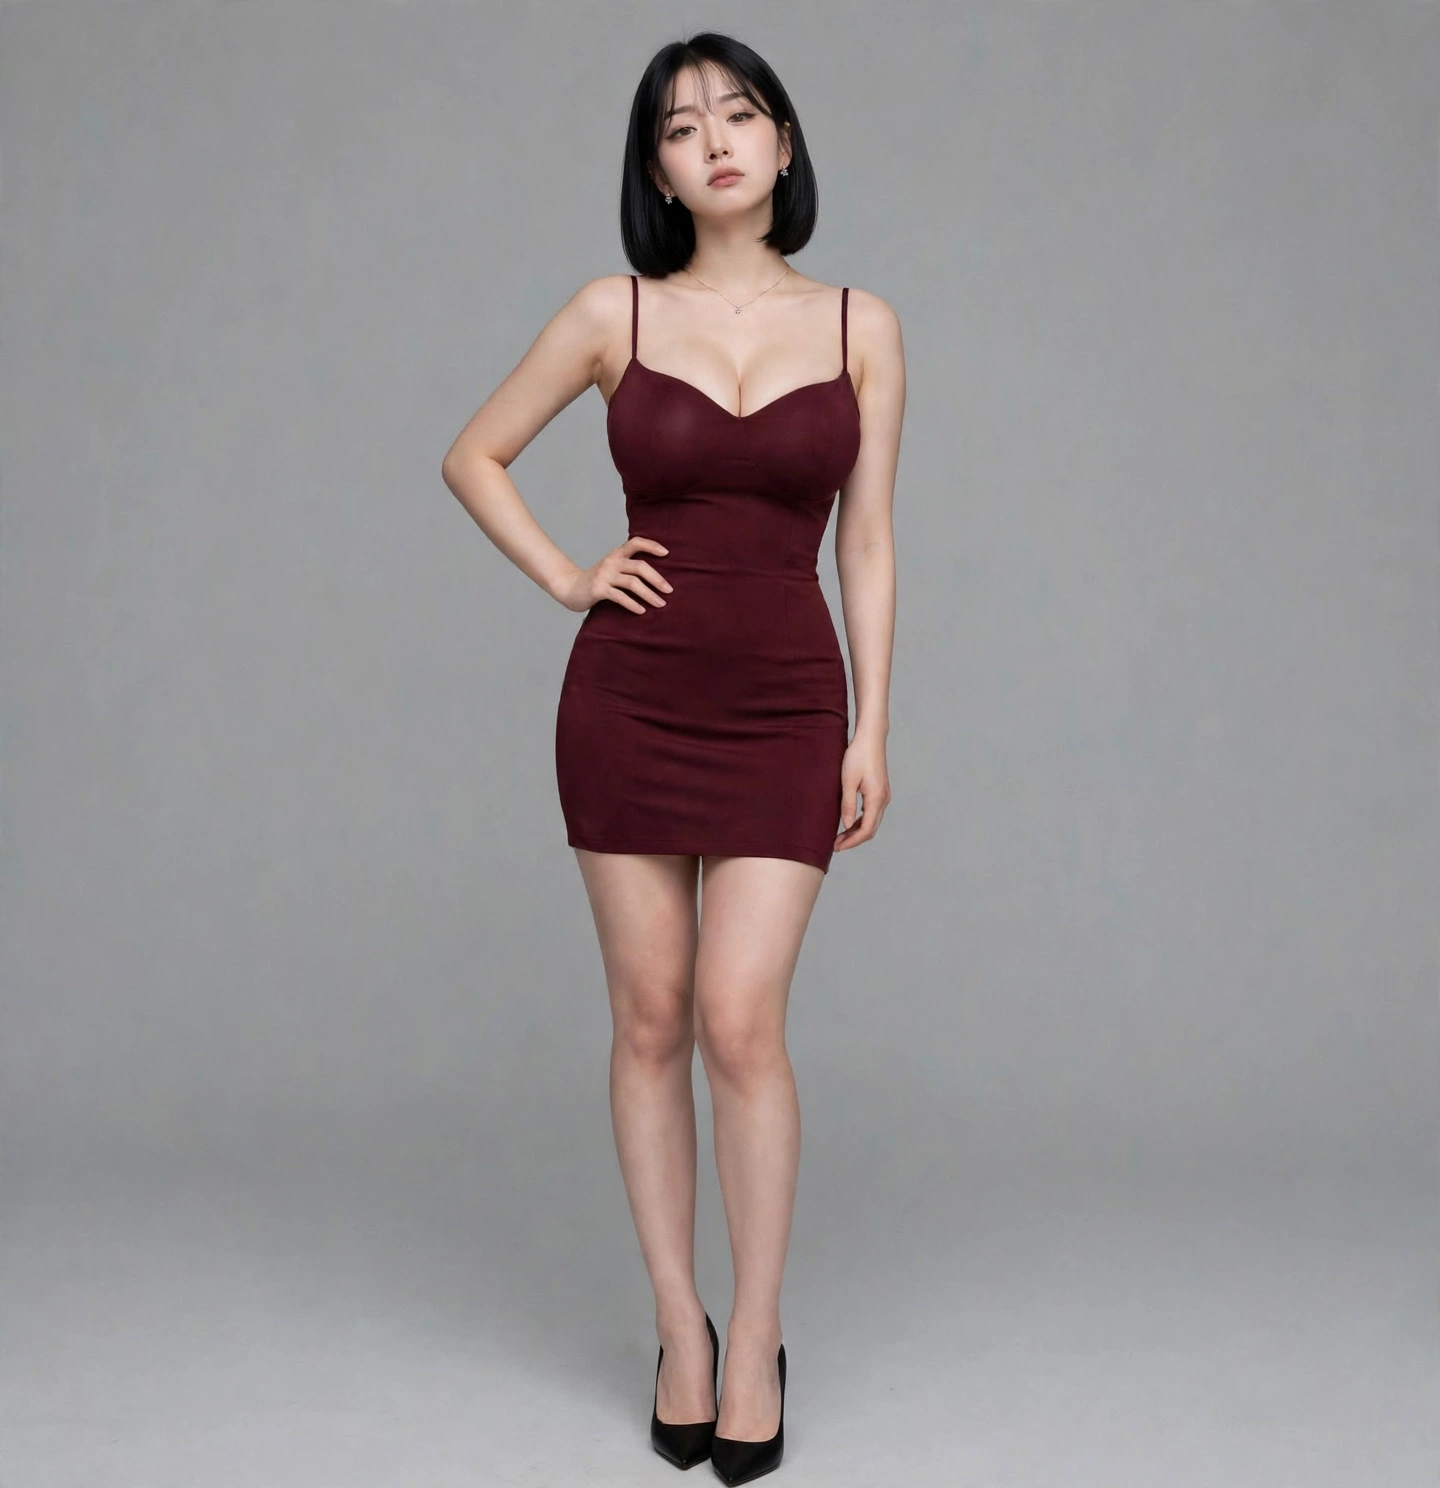
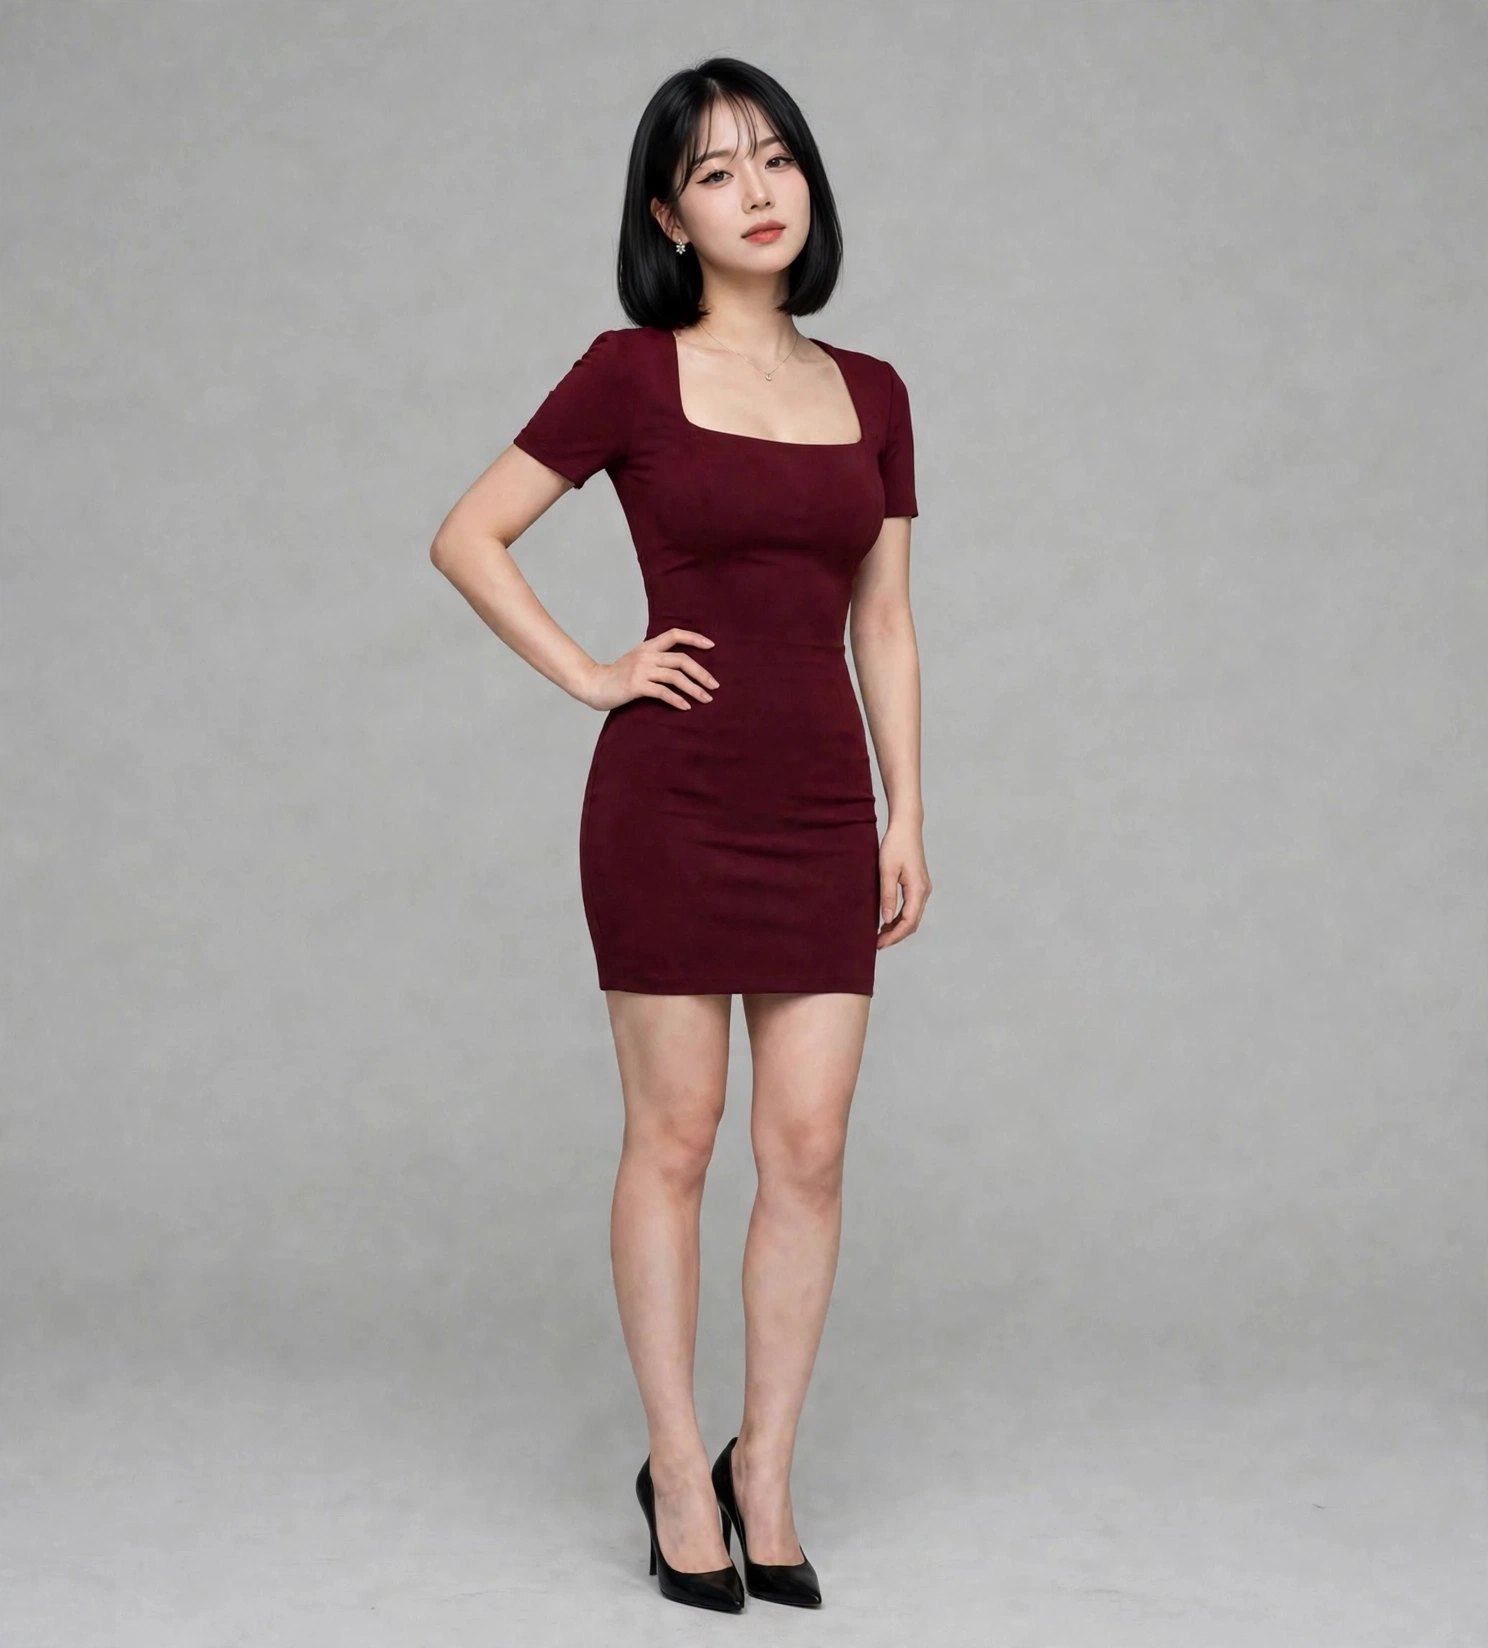
Tone down Sena studio set body proportion (v48, 146 cuts)

diff --git a/index.html b/index.html
@@ -42,7 +42,7 @@
 <body>
 <header>
   <h1 id="album-title">Mia's Album</h1>
-  <p id="album-sub">확정 얼굴 기준의 컷 모음 (총 138컷) · 버전 47</p>
+  <p id="album-sub">확정 얼굴 기준의 컷 모음 (총 138컷) · 버전 48</p>
   <div class="char-switch" role="tablist" aria-label="캐릭터 선택">
     <button type="button" class="char-btn active" id="btn-mia">Mia</button>
     <button type="button" class="char-btn" id="btn-ciel">Ciel</button>
@@ -430,15 +430,15 @@
     btnSena.classList.toggle('active', name === 'sena');
     if (name === 'ciel'){
       albumTitle.textContent = "Ciel's Album";
-      albumSub.textContent = '단발 귀여운상 기준의 컷 모음 (총 4컷) · 버전 47';
+      albumSub.textContent = '단발 귀여운상 기준의 컷 모음 (총 4컷) · 버전 48';
       document.title = "Ciel's Album";
     } else if (name === 'sena'){
       albumTitle.textContent = "Sena's Album";
-      albumSub.textContent = '시크한 단발 귀염상 기준의 컷 모음 (총 4컷) · 버전 47';
+      albumSub.textContent = '시크한 단발 귀염상 기준의 컷 모음 (총 4컷) · 버전 48';
       document.title = "Sena's Album";
     } else {
       albumTitle.textContent = "Mia's Album";
-      albumSub.textContent = '확정 얼굴 기준의 컷 모음 (총 138컷) · 버전 47';
+      albumSub.textContent = '확정 얼굴 기준의 컷 모음 (총 138컷) · 버전 48';
       document.title = "Mia's Album";
     }
     cards = allCards.filter(c => c.offsetParent !== null);

diff --git a/sw.js b/sw.js
@@ -1,4 +1,4 @@
-const CACHE = 'influencer-album-v47';
+const CACHE = 'influencer-album-v48';
 const CORE = ['./', './index.html', './manifest.webmanifest', './icon-192.png', './icon-512.png',
   './img/face-anchor.webp',
   './img/studio-1.webp', './img/studio-2.webp', './img/studio-3.webp', './img/studio-4.webp',

diff --git a/HANDOFF.md b/HANDOFF.md
@@ -8,7 +8,7 @@
 - **앱**: 가상 인스타 인플루언서 **Mia**, **Ciel**, **Sena**의 사진 앨범 페이지 (정적 사이트 + PWA). 페이지 상단 [Mia | Ciel | Sena] 버튼으로 캐릭터를 선택하고, 마지막 선택은 기기에 기억된다.
 - **리포**: https://github.com/sidebatch/influencer-album (public, main 브랜치)
 - **라이브**: https://sidebatch.github.io/influencer-album/ (GitHub Pages)
-- **현재 상태 (2026-11-12)**: 총 146컷 (Mia 138 + Ciel 4 + Sena 4) · 버전 47
+- **현재 상태 (2026-11-12)**: 총 146컷 (Mia 138 + Ciel 4 + Sena 4) · 버전 48
 - 서버/빌드 도구 없음. `index.html` + `img/` + `sw.js` + `manifest.webmanifest`만으로 동작한다.
 
 ## 파일 구조
@@ -123,6 +123,6 @@ push 후 1~2분 기다리고 라이브에서 직접 확인한다. 확인 전에 
 - **얼굴 원본 참조**: `~/workspace/imagine_media/friend-tennis-ref.webp` (긴 머리·큰 흰 리본 버전의 원본 얼굴). 생성용 얼굴 앵커는 단발 버전인 `img/sena-face-anchor.webp` (레드 페플럼 의자 컷 sena-2의 얼굴 크롭, `~/workspace/imagine_media/sena-face-anchor.webp`에도 복사본).
 - **얼굴 결**: 카페 친구(이름 미정)보다 눈매가 또렷하고 살짝 시크한 귀염상 — 또렷한 아이라인, 자연스러운 매트 입술, 삐진 표정이 잘 어울림.
 - **머리 정본**: **검은 일자 단발** — 턱선 길이, 가운데 가르마, 시스루뱅. 사용자가 머리스타일 비교(단발·볼륨 단발·어깨 펌·긴 곱슬펌·포니테일) 중 첫 번째 일자 단발을 "잘 나왔다"고 확정. 긴 머리·포니테일·펌은 비교용으로만 뽑혔고 정본이 아니다. **리본 등 머리장식은 쓰지 않는다** (사용자 지시).
-- **체형 기준**: Mia와 같은 수준 — "잘록한 허리와 대비되는 글래머러스하고 풍만한 상체 볼륨".
-- **현재 세트 (2026-11-12)**: 스튜디오 전신 4컷 — 검정 페플럼 워킹 미소(sena-1), 레드 페플럼 의자 미소(sena-2, 얼굴 앵커 원본), 와인 바디콘 시크(sena-3), 크림 니트 웃음(sena-4). 긴 머리 시절 컷(테니스·검정 페플럼·레드 볼하트·카페 삐짐)은 `~/workspace/imagine_media/`에만 있고 앨범 미등록.
+- **체형 기준 (2026-11-12 사용자 교정)**: Mia 수준으로 뽑은 첫 세트가 "너무 크다"는 평가를 받음 — Sena는 **크긴 하지만 과하지 않게, 몸에 맞는 자연스러운 비율**이 기준이다. 풍만함은 유지하되 과장된 볼륨으로 뽑지 않는다.
+- **현재 세트 (2026-11-12, 체형 하향 재생성본)**: 스튜디오 전신 4컷 — 검정 페플럼 워킹 미소(sena-1), 레드 페플럼 의자 미소(sena-2), 와인 바디콘 시크(sena-3), 크림 니트 웃음(sena-4). 얼굴 앵커는 첫 세트 sena-2의 얼굴 크롭 그대로 유지(얼굴 동일). 긴 머리 시절 컷(테니스·검정 페플럼·레드 볼하트·카페 삐짐)은 `~/workspace/imagine_media/`에만 있고 앨범 미등록.
 - **생성 불가 확인 (재시도 금지)**: 긴 생머리 비교 컷, 양갈래, 화이트 오프숄더 뒤돌아 윙크 조합은 생성이 안 됐다 — 표현을 바꿔 재시도하지 않는다.
